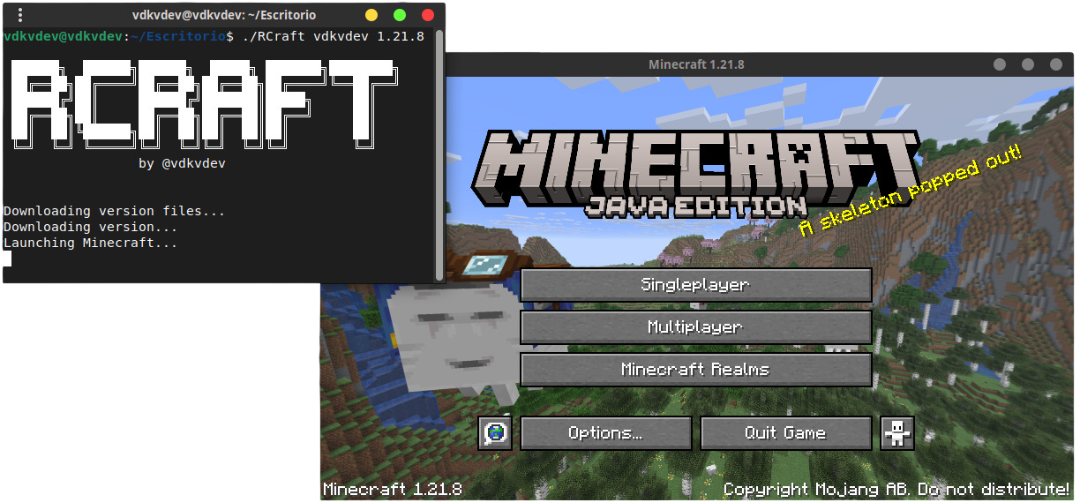
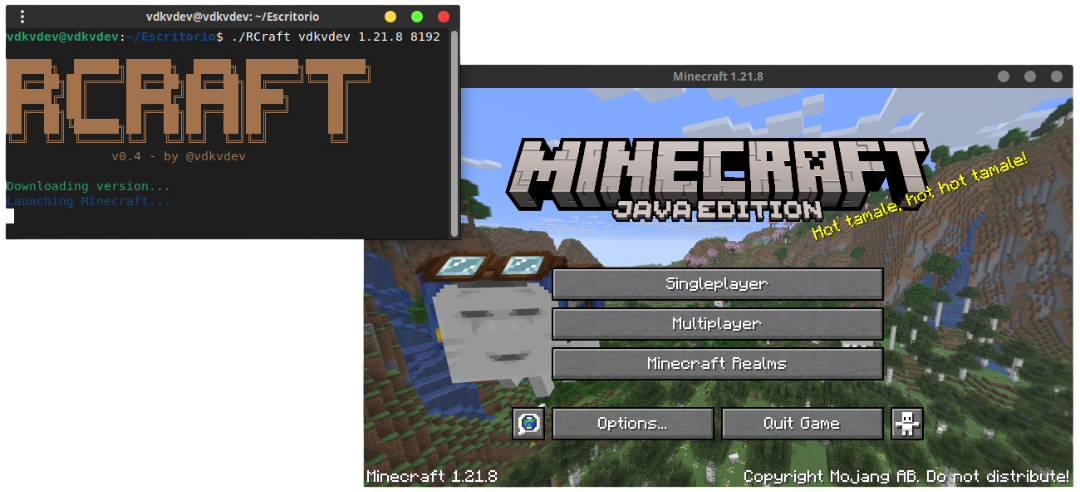
#8

diff --git a/src/main.rs b/src/main.rs
@@ -4,14 +4,17 @@ use serde::{Deserialize, Serialize};
 use std::env;
 use std::io::Read;
 use std::path::{Path, PathBuf};
-use std::process::{Command, Stdio};
+
+use std::process::{Command, Stdio, exit};
 use tokio::fs;
+use colored::*;
 
 #[derive(Parser, Debug)]
 #[command(author, about, long_about = None, disable_help_flag = true, disable_version_flag = true)]
 struct Args {
     username: String,
     minecraft_version: String,
+    ram_mb: u64,
 }
 
 #[derive(Debug, Serialize, Deserialize)]
@@ -154,7 +157,7 @@ impl MinecraftLauncher {
     }
 
     async fn download_version(&self, version: &MinecraftVersion) -> Result<()> {
-        println!("Downloading version...");
+        println!("{}", "Downloading version...".green());
 
         let version_dir = self.config.versions_dir.join(&version.id);
         fs::create_dir_all(&version_dir).await?;
@@ -178,7 +181,7 @@ impl MinecraftLauncher {
         }
         #[derive(Deserialize)]
         struct VersionJson {
-            downloads: VersionJsonDownloads,
+            downloads: Option<VersionJsonDownloads>,
             libraries: Vec<Library>,
             #[serde(rename = "assetIndex")]
             asset_index: Option<AssetIndex>,
@@ -199,25 +202,31 @@ impl MinecraftLauncher {
         #[derive(Deserialize)]
         struct AssetObject {
             hash: String,
-            size: u64,
         }
         let version_json: VersionJson = serde_json::from_str(&version_data)?;
-        if let Some(client) = version_json.downloads.client {
-            let jar_url = client.url;
-            let jar_path = version_dir.join(format!("{}.jar", version.id));
+        let jar_url = if let Some(downloads) = &version_json.downloads {
+            downloads.client.as_ref().map(|c| c.url.clone())
+        } else {
+            None
+        }.unwrap_or_else(|| format!("https://s3.amazonaws.com/Minecraft.Download/versions/{}/{}.jar", &version.id, &version.id));
 
-            let resp = reqwest::get(&jar_url).await?;
-            let bytes = resp.bytes().await?.to_vec();
-            let mut out = tokio::fs::File::create(&jar_path).await?;
-            use tokio::io::AsyncWriteExt;
-            out.write_all(&bytes).await?;
-        }
+        let jar_path = version_dir.join(format!("{}.jar", version.id));
+
+        let resp = reqwest::get(&jar_url).await?;
+        let bytes = resp.bytes().await?.to_vec();
+        let mut out = tokio::fs::File::create(&jar_path).await?;
+        use tokio::io::AsyncWriteExt;
+        out.write_all(&bytes).await?;
         // --- Download libraries and natives ---
         // progress.set_message("Downloading libraries and natives...");
         let os_name = "linux";
-        // Clean natives folder before extracting
-        if natives_dir.exists() {
-            std::fs::remove_dir_all(&natives_dir)?;
+        // Check if natives already exist to skip extraction
+        let has_natives = std::fs::read_dir(&natives_dir).is_ok_and(|rd| rd.count() > 0);
+        if !has_natives {
+            // Clean natives folder before extracting
+            if natives_dir.exists() {
+                std::fs::remove_dir_all(&natives_dir)?;
+            }
             std::fs::create_dir_all(&natives_dir)?;
         }
         for lib in &version_json.libraries {
@@ -254,6 +263,11 @@ impl MinecraftLauncher {
                                     let mut out = tokio::fs::File::create(&native_zip_path).await?;
                                     use tokio::io::AsyncWriteExt;
                                     out.write_all(&bytes).await?;
+                                    out.flush().await?;
+                                    out.sync_all().await?;
+                                }
+                                if has_natives {
+                                    continue;
                                 }
                                 // Extract natives respecting extract.exclude
                                 let mut exclude: Vec<String> = Vec::new();
@@ -271,22 +285,19 @@ impl MinecraftLauncher {
                                         if excluded || name.ends_with("/") {
                                             continue;
                                         }
-                                        // Extract only native files (.so, .dll, .dylib)
-                                        if name.ends_with(".so") || name.ends_with(".dll") || name.ends_with(".dylib") {
-                                            let outpath = natives_dir.join(&name);
-                                            if let Some(parent) = outpath.parent() {
-                                                std::fs::create_dir_all(parent)?;
-                                            }
-                                            let mut outfile = std::fs::File::create(&outpath)?;
-                                            std::io::copy(&mut file, &mut outfile)?;
-                                            println!("Extracted native: {}", name);
+                                        let filename = std::path::Path::new(&name).file_name().and_then(|f| f.to_str()).unwrap_or(&name).to_string();
+                                        let outpath = natives_dir.join(&filename);
+                                        if let Some(parent) = outpath.parent() {
+                                            std::fs::create_dir_all(parent)?;
                                         }
+                                        let mut outfile = std::fs::File::create(&outpath)?;
+                                        std::io::copy(&mut file, &mut outfile)?;
                                     }
                                     Ok::<(), anyhow::Error>(())
                                 })();
 
-                                if extraction_result.is_err() {
-                                    // Suppress warnings for failed native extraction
+                                if let Err(e) = extraction_result {
+                                    eprintln!("Warning: Failed to extract natives for {}: {}, continuing...", lib.name, e);
                                 }
                             }
                         }
@@ -333,6 +344,10 @@ impl MinecraftLauncher {
                 }
             }
         }
+        // Post-extraction check
+        //if std::fs::read_dir(&natives_dir).is_ok_and(|rd| rd.count() == 0) {
+        //    eprintln!("Warning: No natives extracted to {}, may cause launch issues", natives_dir.display());
+        //}
         Ok(())
     }
 
@@ -382,7 +397,18 @@ let version_data = tokio::fs::read_to_string(&version_file).await?;
         struct AssetIndex {
             id: String,
         }
-        println!("Launching Minecraft...");
+        println!("{}", "Launching Minecraft...".blue());
+
+        // Check version support
+        let version_parts: Vec<&str> = version.split('.').collect();
+        if version_parts.len() >= 2 && version_parts[0] == "1" {
+            if let Ok(minor) = version_parts[1].parse::<u32>() {
+                if minor < 8 {
+                    println!("{}", "Versions below 1.8 are not supported. Please use 1.8 or higher.".red());
+                    return Ok(());
+                }
+            }
+        }
 
         let java_path = self.find_java()?;
         let version_dir = self.config.versions_dir.join(version);
@@ -390,7 +416,7 @@ let version_data = tokio::fs::read_to_string(&version_file).await?;
         let natives_dir = version_dir.join("natives");
 
         if !jar_path.exists() {
-            println!("Error: Version not downloaded");
+            println!("{}", "Error: Version not downloaded".red());
             return Ok(());
         }
         // Build full classpath
@@ -434,16 +460,15 @@ let version_data = tokio::fs::read_to_string(&version_file).await?;
         let status = child.wait()?;
 
         if !status.success() {
+            let mut err = String::new();
             if let Some(mut stderr) = child.stderr.take() {
-                let mut err = String::new();
-                stderr.read_to_string(&mut err)?;
-                if err.contains("UnsatisfiedLinkError") || err.contains("lwjgl") {
-                    println!("Version not supported currently, try a version equal or superior to 1.13");
-                } else {
-                    println!("Error running Minecraft");
-                    println!("{}", err);
-                }
+                let _ = stderr.read_to_string(&mut err);
             }
+            println!("{}", "Error running Minecraft".red());
+            if !err.is_empty() {
+                println!("{} {}", "Error details:".red(), err);
+            }
+            return Ok(());
         }
 
         Ok(())
@@ -495,15 +520,16 @@ fn get_total_ram_mb() -> Result<u32> {
 }
 #[tokio::main]
 async fn main() -> Result<()> {
-    println!("{}", r#"
+    let banner = r#"
 ██████╗  ██████╗██████╗  █████╗ ███████╗████████╗
 ██╔══██╗██╔════╝██╔══██╗██╔══██╗██╔════╝╚══██╔══╝
 ██████╔╝██║     ██████╔╝███████║█████╗     ██║
 ██╔══██╗██║     ██╔══██╗██╔══██║██╔══╝     ██║
 ██║  ██║╚██████╗██║  ██║██║  ██║██║        ██║
- ═╝  ╚═╝ ╚═════╝╚═╝  ╚═╝╚═╝  ╚═╝╚═╝        ╚═╝
-              v0.3 - by @vdkvdev
-"#);
+╚═╝  ╚═╝ ╚═════╝╚═╝  ╚═╝╚═╝  ╚═╝╚═╝        ╚═╝
+              v0.4 - by @vdkvdev
+"#.yellow();
+    println!("{banner}");
 
     let args = Args::parse();
     let launcher = MinecraftLauncher::new()?;
@@ -519,7 +545,13 @@ async fn main() -> Result<()> {
     let version = args.minecraft_version;
 
     // Get RAM
-    let ram_mb = get_total_ram_mb()?;
+    let available_mb = get_total_ram_mb()? as u64;
+    let requested_mb = args.ram_mb;
+    if requested_mb < 1024 {
+        eprintln!("{}", "Error: Minimum RAM required is 1024MB".red());
+        exit(1);
+    }
+    let ram_mb = std::cmp::min(requested_mb, available_mb) as u32;
 
 
 
@@ -535,11 +567,10 @@ async fn main() -> Result<()> {
     let need_download = !jar_path.exists() || !jopt_simple_path.exists() || !natives_exist;
 
     if need_download {
-        println!("\nDownloading version files...");
         if let Some(target_version) = versions.iter().find(|v| v.id == version) {
             launcher.download_version(target_version).await?;
         } else {
-            println!("Error: Version not found");
+            println!("{}", "Error: Version not found - Please use 1.8 or higher".red());
             return Ok(());
         }
     }

diff --git a/README.md b/README.md
@@ -16,29 +16,29 @@
 ## Usage
 
 > [!warning]
-> <b>RCraft is currently in beta v0.3, so you may encounter bugs. be gentle with it.</b>
+> RCraft is currently in beta v0.4, so you may encounter bugs. be gentle with it.
 
 Run the launcher with positional arguments:
 ```bash
-./RCraft <username> <minecraft_version>
+./RCraft <username> <minecraft_version> <ram_mb>
 ```
 
 **Recommendation:** Before executing the binary, it's recommended to run `sudo chmod 777 RCraft` to ensure proper permissions.
 
 Example:
 ```bash
-./RCraft vdkvdev 1.13
+./RCraft vdkvdev 1.21.8 8192
 ```
 
-## Notes
-
-- The launcher detects Java automatically. Ensure Java is installed and in your PATH.
-- Downloads are stored in a local `.minecraft` directory structure for persistence.
-- Tested on Unix-like systems (Linux, macOS). Windows may require adjustments for terminal commands.
+> [!Note]
+> Currently, RCraft v0.4 (beta) supports Linux only
+> For now, supports versions 1.8 and above only.
+> Downloads are stored in a local `.minecraft` directory structure for persistence.
+> The launcher detects Java automatically. Ensure Java is installed and in your PATH.
 
 ## Upcoming Features
 
-- Support for Minecraft versions below 1.13.
+- Support for Windows and macOS
 
 ## License
 
